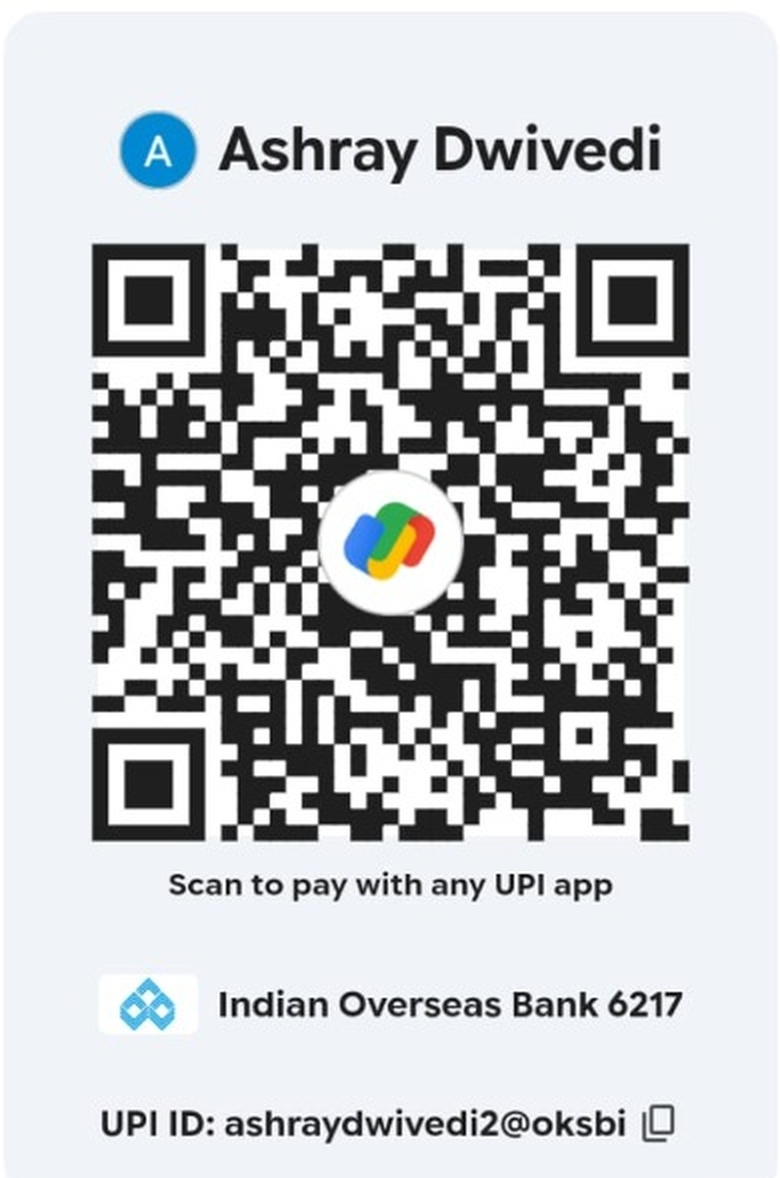
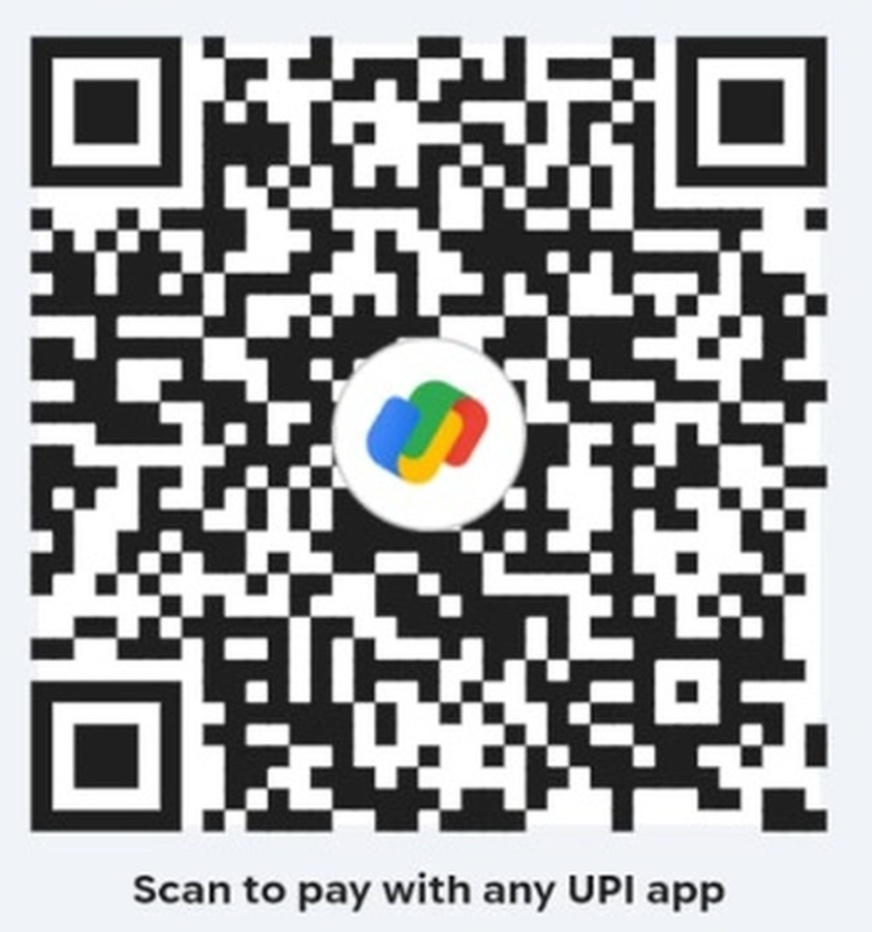
Upload QR code only for payment security

diff --git a/src/components/BugArena.jsx b/src/components/BugArena.jsx
@@ -1430,7 +1430,7 @@ const BugArena = ({ onAbort }) => {
             </div>
             <div className="ba-reg-qr-body">
               <div className="ba-reg-qr-wrap">
-                <img src="/bugarena_qr.jpg?v=2" alt="Bug Arena Payment QR Code" className="ba-reg-qr-img" />
+                <img src="/bugarena_qr.png?v=3" alt="Bug Arena Payment QR Code" className="ba-reg-qr-img" />
                 <div className="ba-reg-qr-glow" />
               </div>
               <div className="ba-reg-fee-badge">
